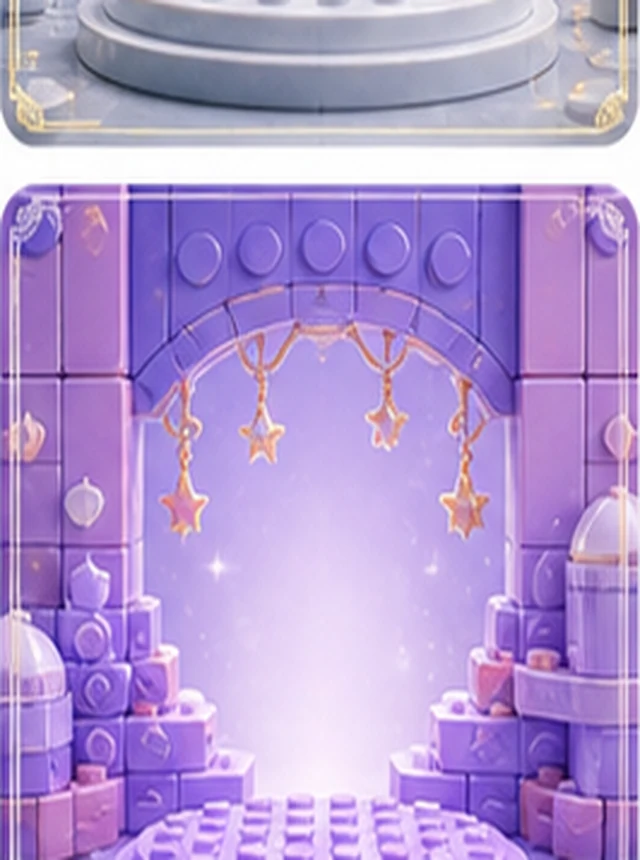
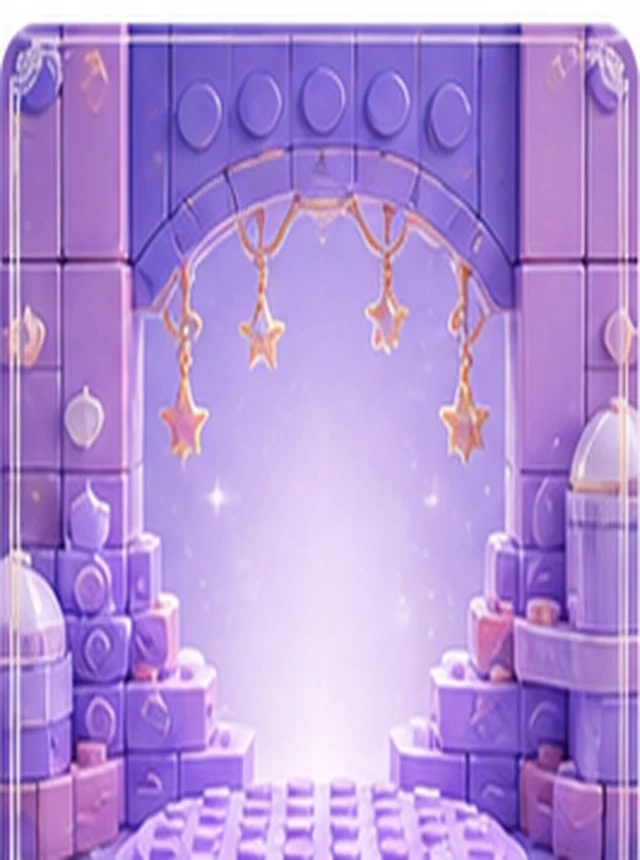
Clean card background image artifacts

diff --git a/DEVELOPMENT_LOG.md b/DEVELOPMENT_LOG.md
@@ -1010,3 +1010,9 @@ Next:
 - 橱窗构图控制新增数字输入框，可直接输入左右、上下、缩放和旋转数值。
 - 武器缩放范围调整为 35%-220%，方便把小武器放大或把大武器收小。
 - 本地橱窗生成器明确只把缩放应用到武器主体图层，背景和角色保持固定。
+
+## 2026-05-25 - 卡牌背景残留修复
+
+- 检查了 20 张卡牌背景，发现 06-20 存在从背景拼图切片带来的上一排图像残留。
+- 重新从原图裁切并恢复 640x860 尺寸，清除了顶部残留边缘。
+- 同步更新背景 contact sheet，方便后续继续检查背景图库质量。
